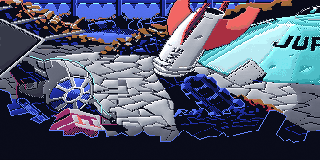
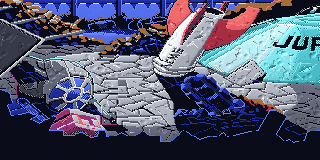
Style pass 4: paneled floors are worn artificial; worn objects are beaten up (dents, scratches, grime, tight edges) instead of smoothed
Claude-Session: https://claude.ai/code/session_01KMMpWo1pAxVCtPqbSi1RBM

diff --git a/tools/paint/restyle.py b/tools/paint/restyle.py
@@ -111,7 +111,7 @@ def classify(lab, comp, n, zones, rows, height=190, top=10):
     def to_row(y):
         return (y - top) * rows / height
     org = [(x0, to_row(y0), x1, to_row(y1)) for (x0, y0, x1, y1) in zones.get("organic", [])]
-    worn = [(x0, to_row(y0), x1, to_row(y1)) for (x0, y0, x1, y1) in zones.get("worn", [])]
+    worn = [(z[0], to_row(z[1]), z[2], to_row(z[3]), set(z[4]) if len(z) > 4 else None) for z in zones.get("worn", [])]
     flat = [(x0, to_row(y0), x1, to_row(y1), mode, amp) for (x0, y0, x1, y1, mode, amp) in zones.get("flat", [])]
     info = {}
     for c in range(n):
@@ -126,8 +126,8 @@ def classify(lab, comp, n, zones, rows, height=190, top=10):
         mode, amp, box = "organic", 0.0, None
         if any(x0 <= cx <= x1 and y0 <= cy <= y1 for (x0, y0, x1, y1) in org):
             pass
-        elif any(x0 <= cx <= x1 and y0 <= cy <= y1 for (x0, y0, x1, y1) in worn):
-            mode = "worn"            # built as a structured object, now rounded and roughened by years of use
+        elif any(x0 <= cx <= x1 and y0 <= cy <= y1 and (allowed is None or colours <= allowed) for (x0, y0, x1, y1, allowed) in worn):
+            mode = "worn"            # built as a structured object, now dented and roughened by years of use
         else:
             hit = [z for z in flat if z[0] <= cx <= z[2] and z[1] <= cy <= z[3]]
             if hit:
@@ -208,18 +208,61 @@ def restyle(path, rows=160, top=10, height=190, seed=3, light=0.07, edge=0.12, g
         if cnt < 40 or lab[m][0] == 0:
             continue
         mf = m.astype(np.float32)
-        bl = box_blur(box_blur(mf, 2), 2)
+        wornc = info[c][0] == "worn"
+        bl = box_blur(box_blur(mf, 1 if wornc else 2), 1 if wornc else 2)
         gy, gx = np.gradient(bl)
         lit = 0.7071 * (gx + gy)
         mx = np.abs(lit).max()
         if mx <= 0:
             continue
-        lit_total = np.where(m, lit / mx * (0.55 if info[c][0] == "worn" else 1.0), lit_total)
+        lit_total = np.where(m, lit / mx * (0.42 if wornc else 1.0), lit_total)
     k = np.where(lit_total > 0, 1 + volume * lit_total, 1 + volume * 0.8 * lit_total)
     k = np.clip(k, 0.72, 1.2)
     out = out * k[..., None]
     out[..., 0] *= 1 + 0.05 * lit_total
     out[..., 2] *= 1 - 0.05 * lit_total
+    # worn regions are beaten up rather than washed smooth: dings, scratches and a little grime, with the straight edges left alone
+    rngw = np.random.default_rng(seed + 11)
+    for c in range(n):
+        if info[c][0] != "worn":
+            continue
+        m = comp == c
+        cnt = int(m.sum())
+        if cnt < 120 or lab[m][0] == 0:
+            continue
+        ys_, xs_ = np.nonzero(m)
+        inner = box_blur(m.astype(np.float32), 1) > 0.99           # keep marks off the outline
+        iy, ix = np.nonzero(inner)
+        if len(ix) < 20:
+            continue
+        for _ in range(min(28, 1 + cnt // 130)):                    # dents: dark upper-left, lit lower-right inside the dent
+            j = int(rngw.integers(0, len(ix)))
+            cx_, cy_ = ix[j], iy[j]
+            r = float(rngw.uniform(1.8, 3.6))
+            x0_, x1_ = int(max(0, cx_ - 4)), int(min(w, cx_ + 5))
+            y0_, y1_ = int(max(0, cy_ - 4)), int(min(h, cy_ + 5))
+            for yy_ in range(y0_, y1_):
+                for xx_ in range(x0_, x1_):
+                    dx_, dy_ = (xx_ - cx_) / r, (yy_ - cy_) / (r * 0.8)
+                    d2 = dx_ * dx_ + dy_ * dy_
+                    if d2 < 1.0 and inner[yy_, xx_]:
+                        out[yy_, xx_] *= 1 + 0.42 * (dx_ + dy_) * 0.7071 * (1 - 0.3 * d2)
+        for _ in range(min(34, 1 + cnt // 100)):                    # scratches
+            j = int(rngw.integers(0, len(ix)))
+            ang = float(rngw.uniform(0, 3.1416))
+            ln = int(rngw.integers(4, 12))
+            k_ = 1.32 if rngw.random() < 0.5 else 0.7
+            for t_ in range(ln):
+                xx_, yy_ = int(ix[j] + np.cos(ang) * t_), int(iy[j] + np.sin(ang) * t_)
+                if 0 <= xx_ < w and 0 <= yy_ < h and inner[yy_, xx_]:
+                    out[yy_, xx_] *= k_
+        for _ in range(min(10, cnt // 300)):                        # grime runs: short darker vertical streaks
+            j = int(rngw.integers(0, len(ix)))
+            ln = int(rngw.integers(4, 12))
+            for t_ in range(ln):
+                yy_ = iy[j] + t_
+                if 0 <= yy_ < h and inner[yy_, ix[j]]:
+                    out[yy_, ix[j]] *= 0.88
     # edge light between neighbouring shapes
     L = lum(base)
     def shifted(arr, dy, dx):

diff --git a/tools/paint/build_act1.py b/tools/paint/build_act1.py
@@ -7,18 +7,19 @@ from restyle import restyle
 
 REF = "ref/"
 FULL = (0, 10, 320, 200)
+FLOOR = (0, 60, 320, 200, {7, 8})     # the paneled floor: grey tiles are worn artificial wherever they are in the picture
 # which parts are ARTIFICIAL (structured, pristine: flat, crisp) rather than ORGANIC (worn, banged up, rounded).
 # 'flat' boxes: (x0, y0, x1, y1, mode, amp) in screen coordinates; mode 'flat', 'cyl_v' (drum), 'cyl_h' (tube).
 # 'organic' boxes win over 'flat' boxes. Brown (rust, rubble) and green (slime) regions are always organic.
 ZONES = {
     "garbage_mountain": {"flat": [(0, 10, 320, 92, "flat", 0.05)],
-                         "worn": [(92, 72, 198, 152), (0, 92, 92, 162), (192, 62, 240, 105), (182, 104, 224, 142), (196, 150, 252, 190), (262, 80, 320, 145)]},
+                         "worn": [(92, 72, 198, 152), (0, 92, 92, 162), (192, 62, 240, 105), (182, 104, 224, 142), (196, 150, 252, 190), (262, 80, 320, 145), FLOOR]},
     "junk_field": {"flat": [(0, 10, 320, 44, "flat", 0.05)],
-                   "worn": [(36, 95, 110, 150), (0, 35, 60, 160), (150, 10, 320, 100), (150, 10, 215, 100), (48, 135, 108, 175), (175, 95, 290, 160)]},
+                   "worn": [(36, 95, 110, 150), (0, 35, 60, 160), (150, 10, 320, 100), (150, 10, 215, 100), (48, 135, 108, 175), (175, 95, 290, 160), FLOOR]},
     "junk_tower": {"flat": [(232, 10, 320, 138, "flat", 0.05)],
-                   "worn": [(0, 35, 120, 150), (15, 95, 170, 180), (110, 20, 235, 45), (240, 115, 310, 160)]},
+                   "worn": [(0, 35, 120, 150), (15, 95, 170, 180), (110, 20, 235, 45), (240, 115, 310, 160), FLOOR]},
     "wire_tube": {"flat": [(18, 78, 312, 160, "cyl_h", 0.40)]},
-    "robot_head": {"flat": [(205, 100, 262, 200, "flat", 0.05)], "worn": [(175, 58, 320, 200), (0, 40, 100, 130)]},
+    "robot_head": {"flat": [(205, 100, 262, 200, "flat", 0.05)], "worn": [(175, 58, 320, 200), (0, 40, 100, 130), FLOOR]},
     "conveyor": {"flat": [FULL + ("flat", 0.05)], "worn": [(0, 148, 185, 200), (165, 155, 250, 200)]},
     "rail_west": {"flat": [FULL + ("flat", 0.05)]},
     "crane_cabin": {"flat": [FULL + ("flat", 0.05)]},
